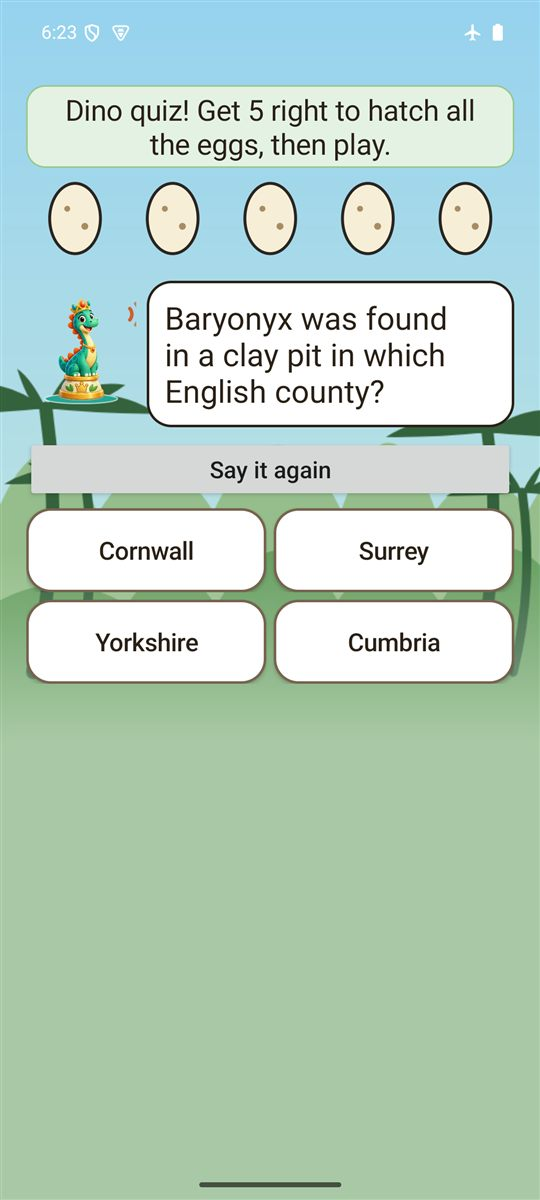
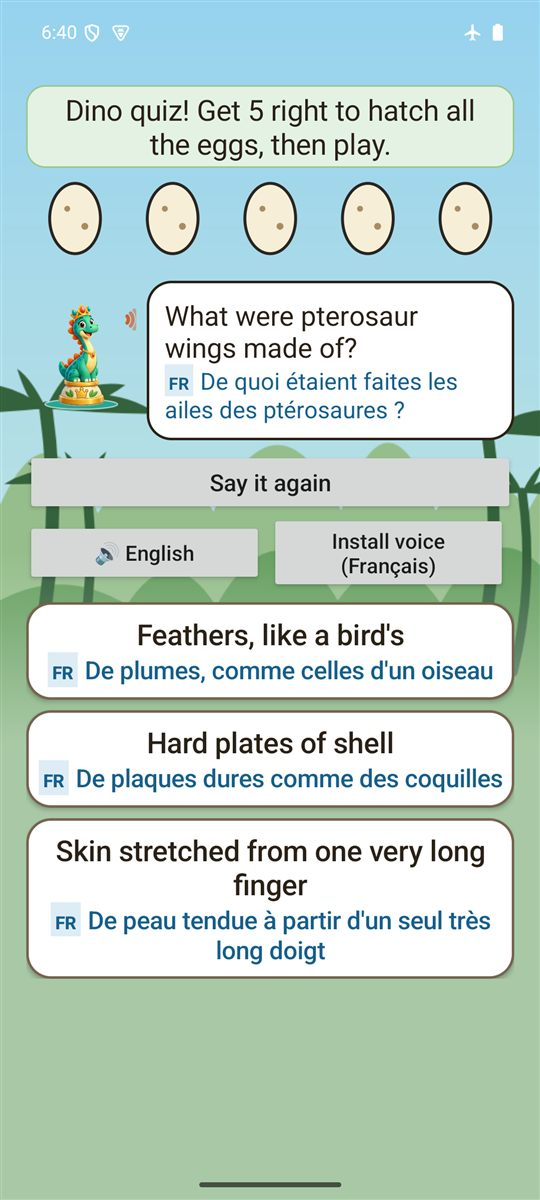
Learning between games picture: English with French

diff --git a/index.html b/index.html
@@ -75,7 +75,7 @@
         <figure><img src="img/3-board3d.jpg" alt="The same board in 3D, seen from the player's side with the royal dinosaur pieces" width="540" height="1200" loading="lazy"><figcaption>The 3D board</figcaption></figure>
         <figure><img src="img/4-trail.jpg" alt="The Dino trail, a path of stops starting with the Hatchling pawn" width="540" height="1200" loading="lazy"><figcaption>The Dino trail</figcaption></figure>
         <figure><img src="img/5-games.jpg" alt="The Dino games menu, with games for characters and languages" width="540" height="1200" loading="lazy"><figcaption>Dino games</figcaption></figure>
-        <figure><img src="img/7-quiz.jpg" alt="The dino quiz after a game: five eggs to hatch and a question about where Baryonyx was found" width="540" height="1200" loading="lazy"><figcaption>Learning between games</figcaption></figure>
+        <figure><img src="img/7-quiz.jpg" alt="The dino quiz after a game, in English with French underneath: what were pterosaur wings made of? Each answer in both languages, with a speak button for each" width="540" height="1200" loading="lazy"><figcaption>Learning between games, in two languages</figcaption></figure>
         <figure><img src="img/8-quiz-answer.jpg" alt="A right answer hatches an egg and a fun fact appears" width="540" height="1200" loading="lazy"><figcaption>A fact with every answer</figcaption></figure>
         <figure><img src="img/6-grownup-check.jpg" alt="The grown-up check: hold a button for three seconds, then answer a sum" width="540" height="1200" loading="lazy"><figcaption>The grown-up check</figcaption></figure>
       </div>
